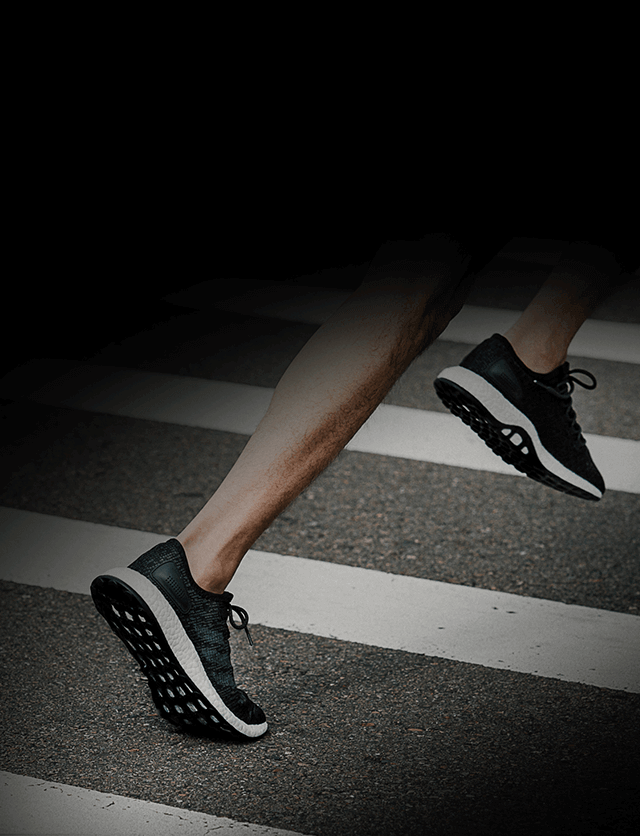
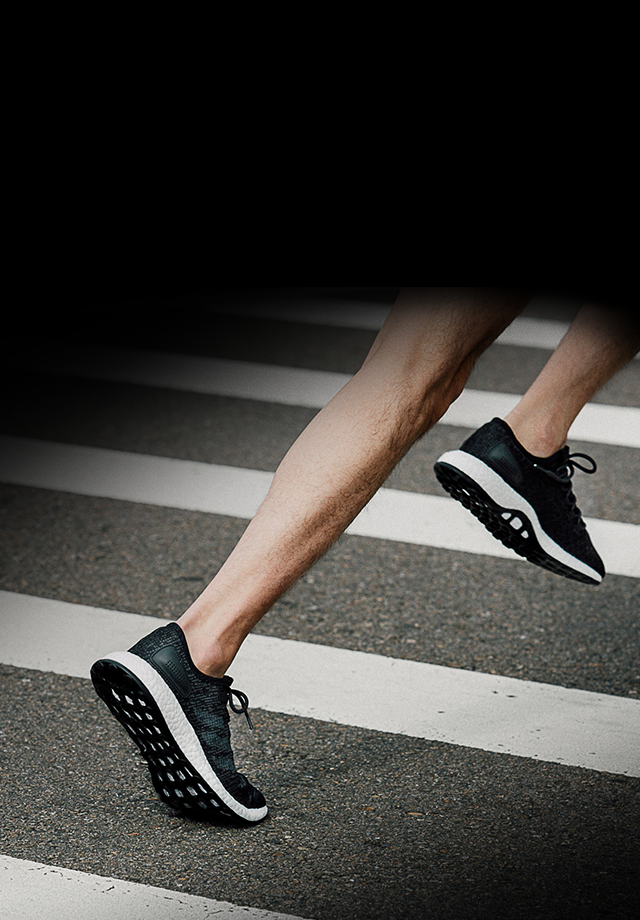
feedback0221

diff --git a/app/css/layouts/_sections.scss b/app/css/layouts/_sections.scss
@@ -7,12 +7,15 @@
 		background-size: cover;
 		transform: scale(1.4);
 		background-position: right bottom;
+		background-repeat: no-repeat;
 		opacity: 0.1;
 		// margin-top: 71px;
 		padding-top: 100vh;
 		@media screen and (max-width: #{$screen-xs - 1}) {
-			@include Item(640, 836, 83, 0, 0, 0, 640,'fit','absolute');
-			padding-top: 100vh;
+			@include Item(640, 920, 83, 0, 0, 0, 640,'fit','absolute');
+			padding-top: calc(100vh - #{ per(83,640) });
+			background-position: right bottom;
+			// background-size: 100% auto;
 		}
 	}
 	.kv-text-1{
@@ -48,7 +51,7 @@
 			slideInDown 1.2s infinite 0s
 		);
 		@media screen and (max-width: #{$screen-xs - 1}) {
-			@include Item(62, 34, 'auto', 0, 210 , 293, 640,'fit','absolute');
+			@include Item(62, 34, 'auto', 0, 180 , 293, 640,'fit','fixed');
 		}
 	}
 	&.on{

diff --git a/app/css/layouts/_header.scss b/app/css/layouts/_header.scss
@@ -28,5 +28,6 @@ header {
 		@include Item(640, 83, 0, 0, 0, 0, 640,'fit','fixed');
 		background: #000;
 		z-index: 10;
+		border-bottom: 1px solid #f8f8f8;
 	}
 }
